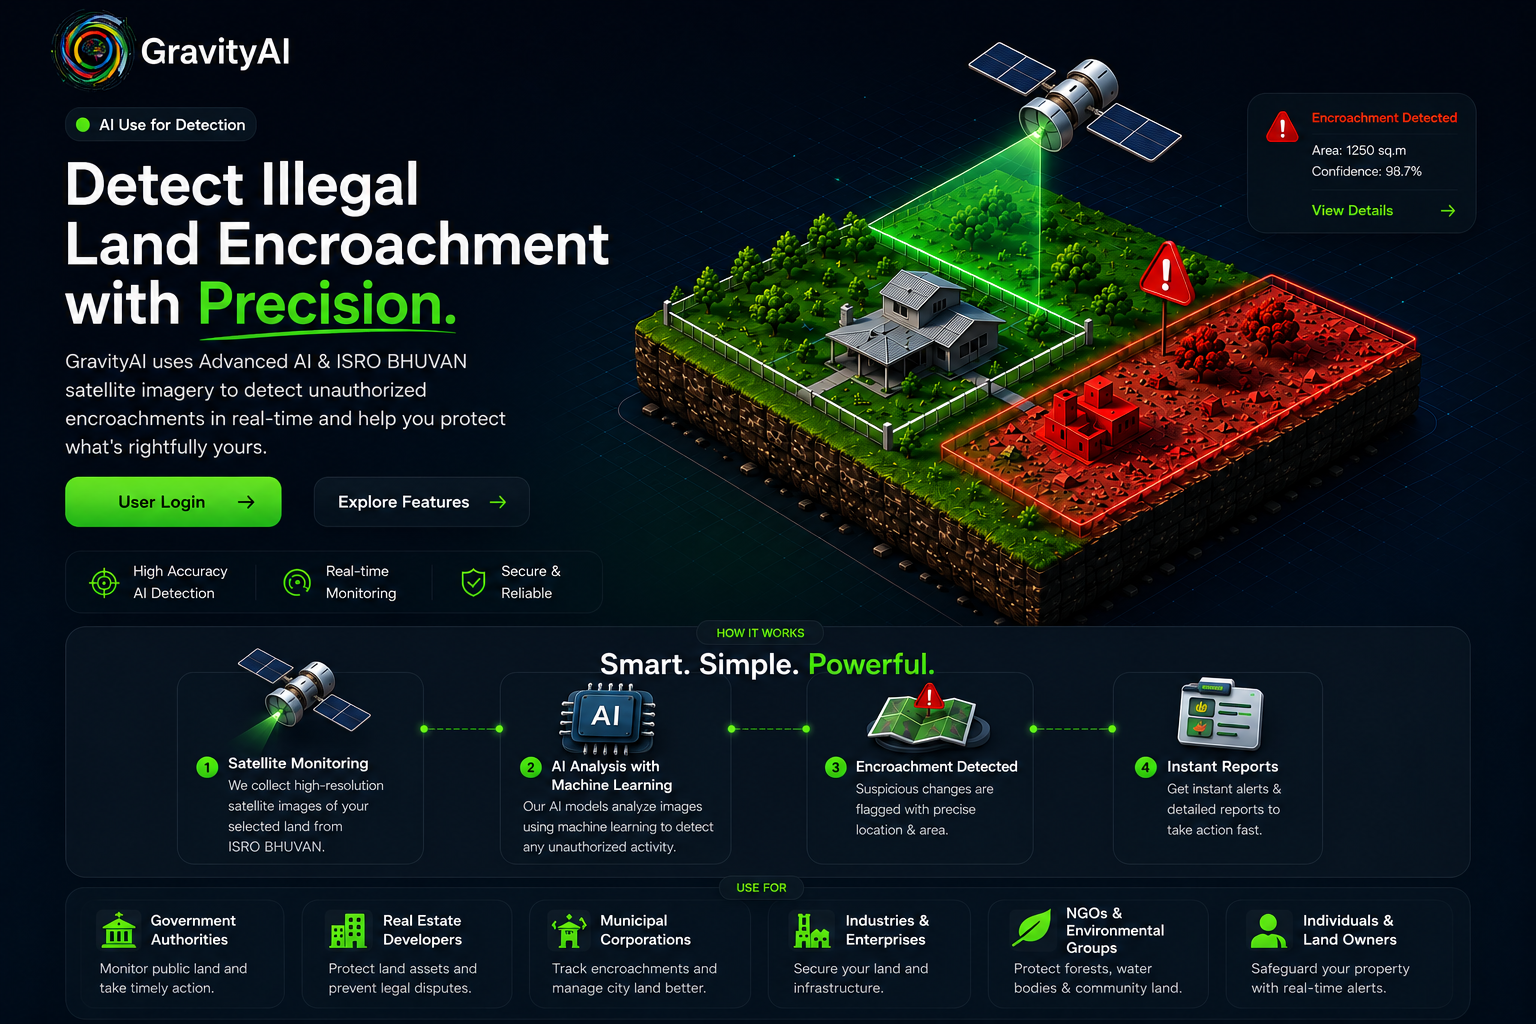
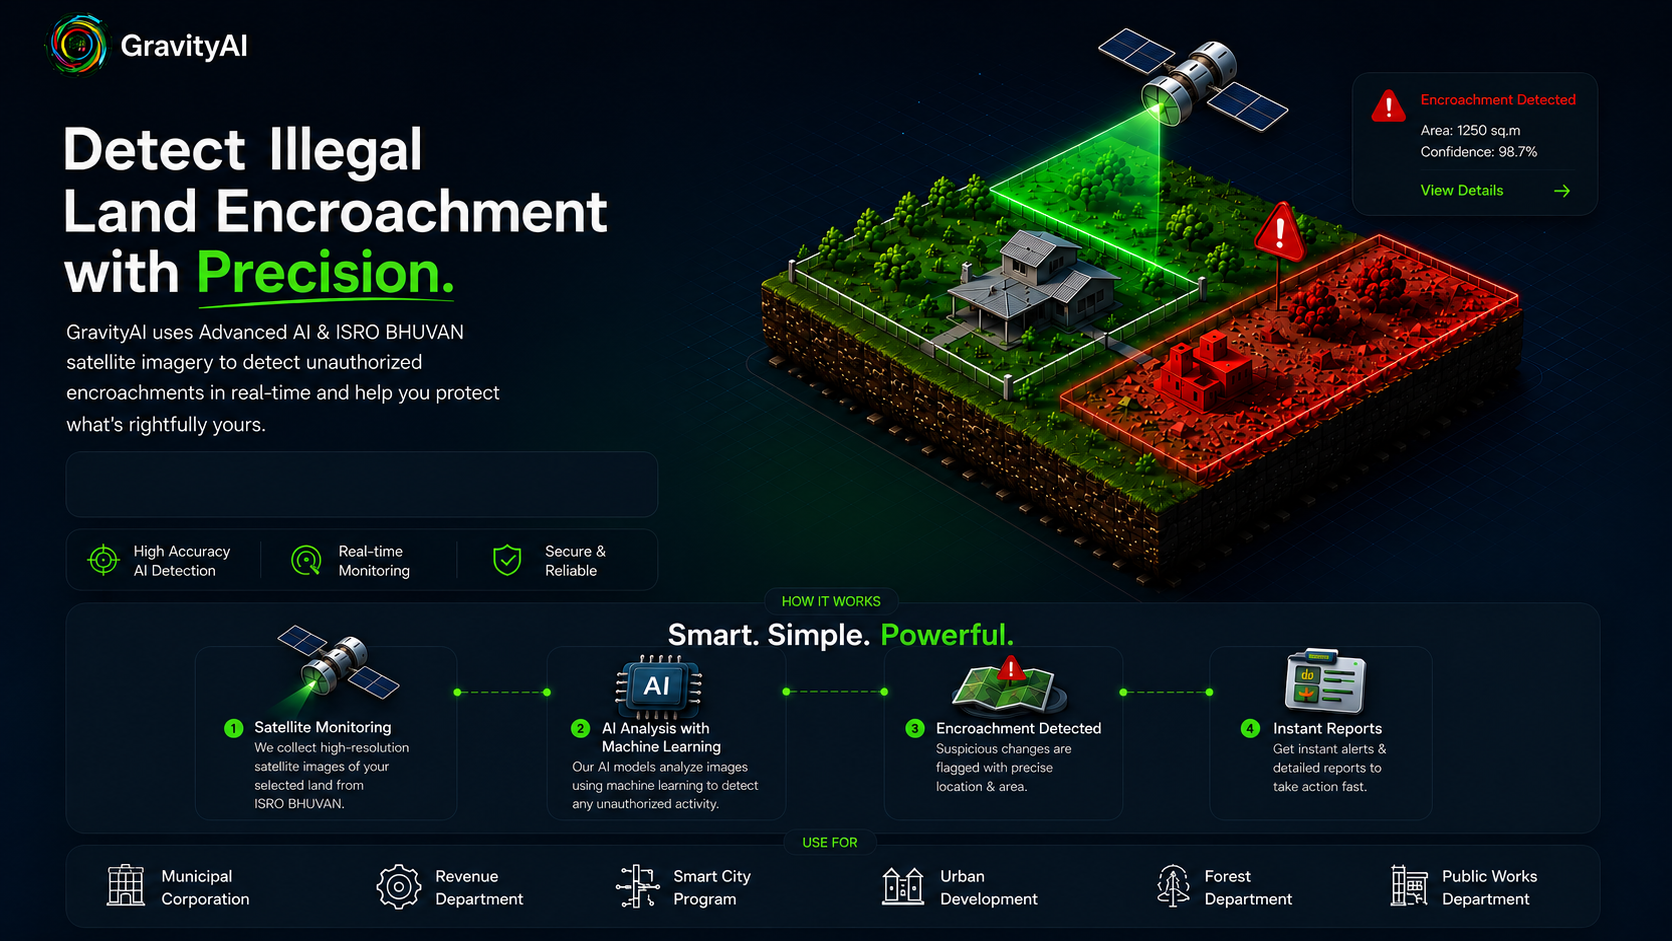
feat: add glassmorphic login buttons over landing image

diff --git a/lib/main.dart b/lib/main.dart
@@ -72,44 +72,95 @@ class _LandingPageState extends State<LandingPage> {
 
   @override
   Widget build(BuildContext context) {
+    bool isMobile = MediaQuery.of(context).size.width < 900;
+    
     return Scaffold(
-      backgroundColor: const Color(0xFF020617), // Match the dark theme
-      body: GestureDetector(
-        onTap: _showLoginDialog,
-        child: SizedBox(
-          width: double.infinity,
-          height: double.infinity,
-          child: Image.asset(
-            'assets/images/landing_page.png',
-            fit: BoxFit.cover,
-            errorBuilder: (context, error, stackTrace) {
-              return Center(
-                child: Column(
-                  mainAxisAlignment: MainAxisAlignment.center,
-                  children: [
-                    const Icon(Icons.error_outline, color: Colors.redAccent, size: 40),
-                    const SizedBox(height: 16),
-                    Text("Error loading image: $error", style: const TextStyle(color: Colors.white70)),
-                    const SizedBox(height: 8),
-                    const Text("Click here to try opening Login anyway", style: TextStyle(color: Colors.blueAccent)),
-                  ],
+      backgroundColor: const Color(0xFF020617),
+      body: Stack(
+        children: [
+          // --- BACKGROUND IMAGE ---
+          Positioned.fill(
+            child: Image.asset(
+              'assets/images/landing_page.png',
+              fit: BoxFit.cover,
+              errorBuilder: (context, error, stackTrace) => _buildErrorState(error),
+            ),
+          ),
+
+          // --- INTERACTIVE OVERLAY BUTTONS ---
+          Positioned(
+            left: isMobile ? 20 : MediaQuery.of(context).size.width * 0.08,
+            bottom: isMobile ? 120 : MediaQuery.of(context).size.height * 0.28,
+            child: Row(
+              children: [
+                _buildModernButton(
+                  "OFFICER LOGIN", 
+                  Icons.admin_panel_settings_rounded, 
+                  () => _login(true),
+                  const Color(0xFF22C55E),
                 ),
-              );
-            },
-            frameBuilder: (context, child, frame, wasSynchronouslyLoaded) {
-              if (wasSynchronouslyLoaded) return child;
-              return AnimatedOpacity(
-                opacity: frame == null ? 0 : 1,
-                duration: const Duration(milliseconds: 500),
-                curve: Curves.easeOut,
-                child: child,
-              );
-            },
+                const SizedBox(width: 20),
+                _buildModernButton(
+                  "PUBLIC ACCESS", 
+                  Icons.public_rounded, 
+                  () => _login(false),
+                  Colors.white70,
+                ),
+              ],
+            ).animate().fadeIn(delay: 500.ms).slideY(begin: 0.2, end: 0),
+          ),
+        ],
+      ),
+    );
+  }
+
+  Widget _buildModernButton(String label, IconData icon, VoidCallback onTap, Color accent) {
+    return InkWell(
+      onTap: onTap,
+      borderRadius: BorderRadius.circular(15),
+      child: ClipRRect(
+        borderRadius: BorderRadius.circular(15),
+        child: BackdropFilter(
+          filter: ImageFilter.blur(sigmaX: 10, sigmaY: 10),
+          child: Container(
+            padding: const EdgeInsets.symmetric(horizontal: 25, vertical: 15),
+            decoration: BoxDecoration(
+              color: Colors.black.withOpacity(0.4),
+              borderRadius: BorderRadius.circular(15),
+              border: Border.all(color: const Color(0xFF22C55E).withOpacity(0.5), width: 1.5),
+            ),
+            child: Row(
+              mainAxisSize: MainAxisSize.min,
+              children: [
+                Icon(icon, color: accent, size: 20),
+                const SizedBox(width: 12),
+                Text(label, style: const TextStyle(color: Colors.white, fontWeight: FontWeight.bold, fontSize: 13, letterSpacing: 1.2)),
+              ],
+            ),
           ),
         ),
       ),
     );
   }
+
+  Widget _buildErrorState(dynamic error) {
+    return Container(
+      color: const Color(0xFF020617),
+      child: Center(
+        child: Column(
+          mainAxisAlignment: MainAxisAlignment.center,
+          children: [
+            const Icon(Icons.error_outline, color: Colors.redAccent, size: 40),
+            const SizedBox(height: 16),
+            Text("Error loading image: $error", style: const TextStyle(color: Colors.white70)),
+            const SizedBox(height: 20),
+            ElevatedButton(onPressed: _showLoginDialog, child: const Text("Open Login Anyway")),
+          ],
+        ),
+      ),
+    );
+  }
+
 
   Widget _buildLoginCard(String title, IconData icon, Color accent, bool isOfficer) {
     return ClipRRect(